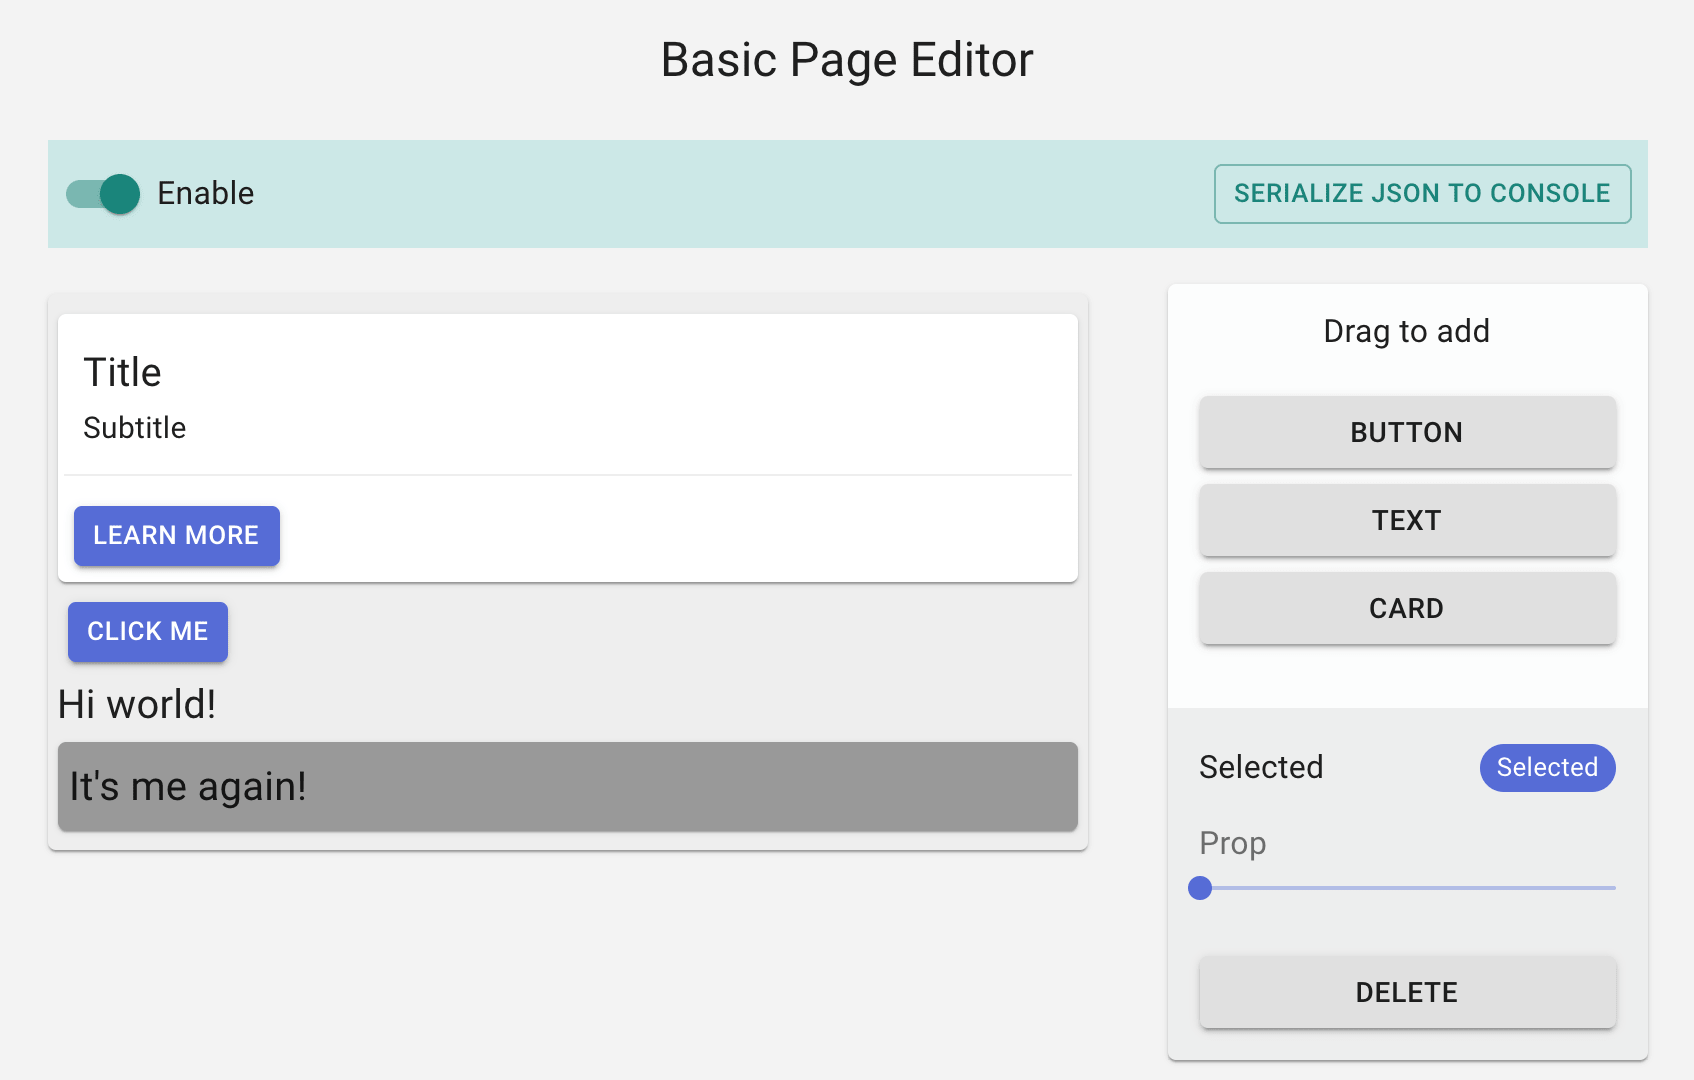
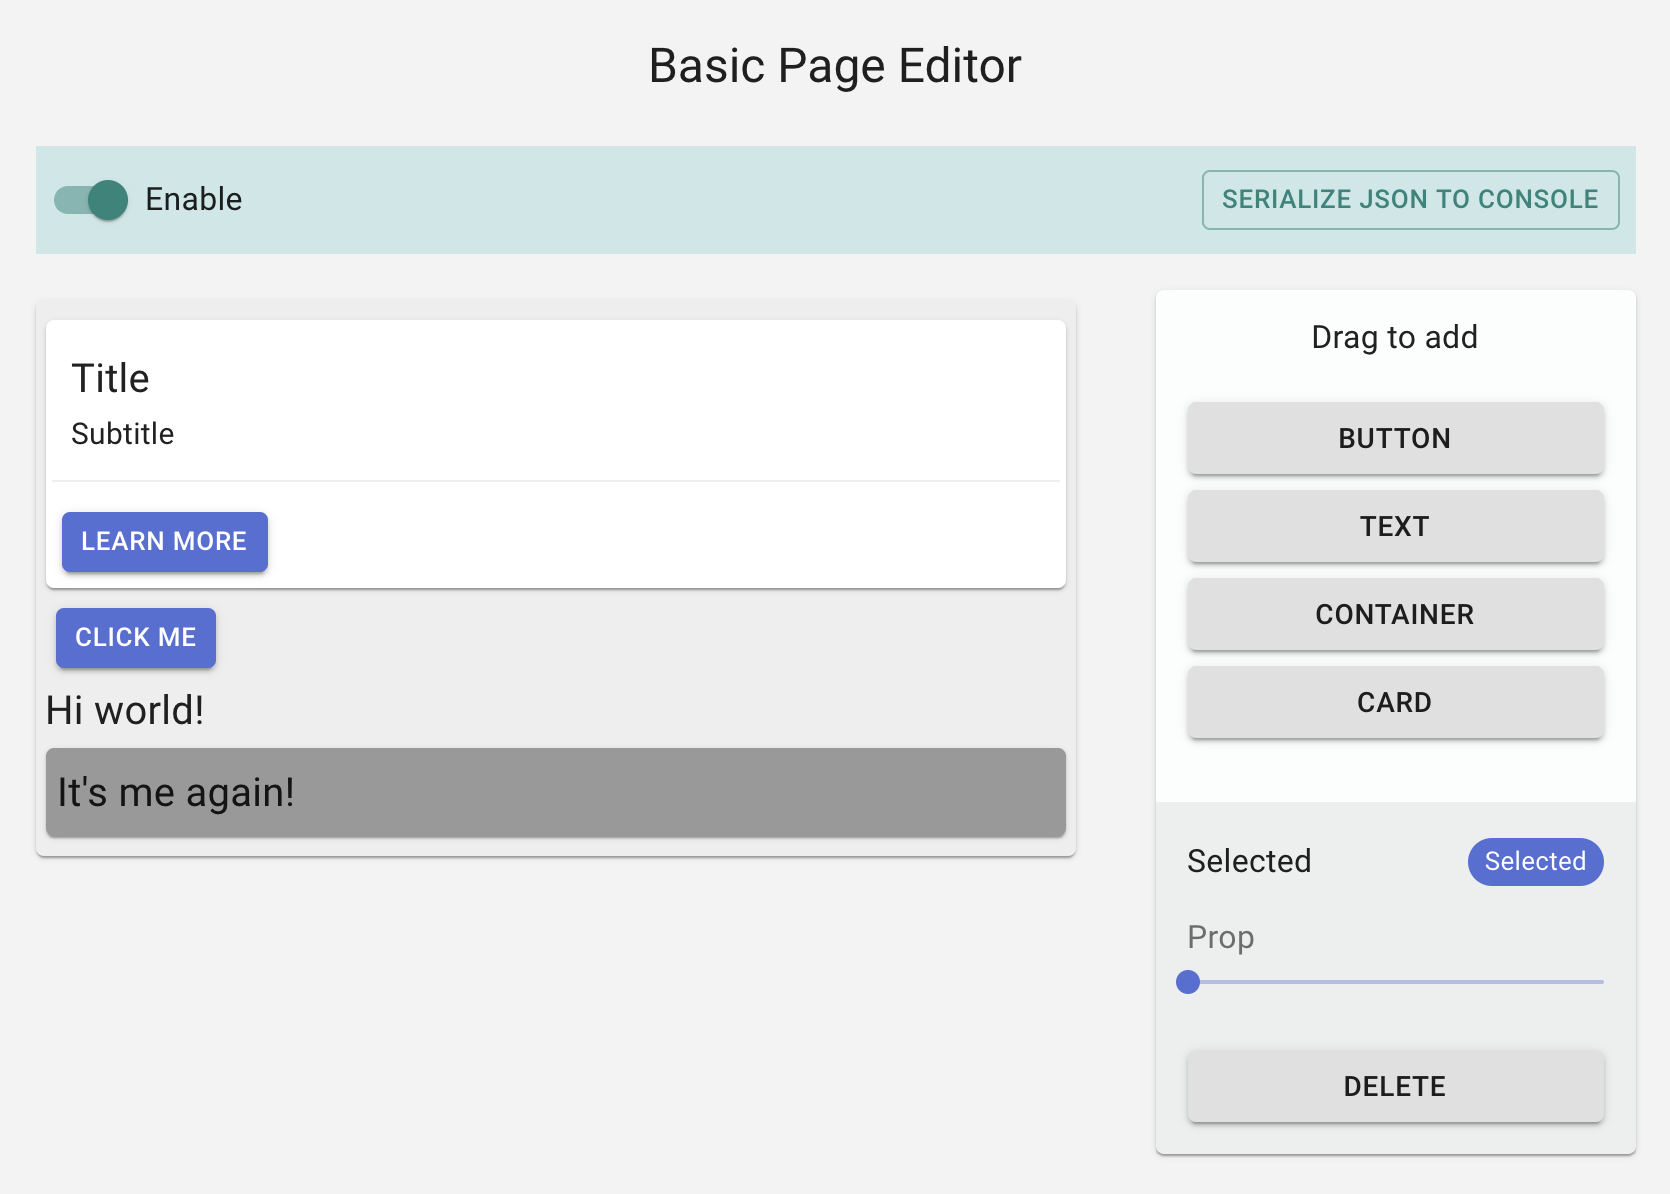
update docs

diff --git a/packages/docs/docs/basic-tutorial.md b/packages/docs/docs/basic-tutorial.md
@@ -95,13 +95,15 @@ import Container from "./Container";
 export const Card = ({background, padding = 20}) => {
   return (
     <Container background={background} padding={padding}>
-      <div ref={connect} className="text-only" style={{padding: "10px", marginBottom:"10px", borderBottom: "1px solid #eee", display: "flex", flexDirection: "column", alignItems:"flex-start"}}>
+      <Container background={background} padding={padding}>
+      <div className="text-only">
         <Text text="Title" fontSize={20} />
         <Text text="Subtitle" fontSize={15} />
       </div>
-      <div className="button-only">
-        <Button size="small">Learn More</Button>
+      <div className="buttons-only">
+        <Button size="small" text="Learn more" variant="contained" color="primary" />
       </div>
+    </Container>
     </Container>
   )
 }
@@ -110,7 +112,7 @@ export const Card = ({background, padding = 20}) => {
 
 ### The Editor
 #### Toolbox
-First, let's build a toolbox which our users would be able to drag and drop to create new instances of those user components we just defined.
+Let's build a "toolbox" which our users would be able to drag and drop to create new instances of those User Components we just defined.
 
 ```jsx
 // components/Toolbox.js
@@ -129,6 +131,9 @@ export const Toolbox = () => {
         </Grid>
         <Grid container direction="column" item>
           <MaterialButton variant="contained">Text</MaterialButton>
+        </Grid>
+        <Grid container direction="column" item>
+          <MaterialButton variant="contained">Container</MaterialButton>
         </Grid>
         <Grid container direction="column" item>
           <MaterialButton variant="contained">Card</MaterialButton>
@@ -267,7 +272,7 @@ Up to this point, we have made a user interface for our page editor. Now, let's 
   - `<Canvas />` creates a droppable region where its immediate children are draggable.
 
 
-```jsx
+```jsx {19,22,23,27,29-31,40}
 // pages/index.js
 import React from 'react';
 import {Typography, Paper, Grid} from '@material-ui/core';
@@ -286,9 +291,7 @@ export default function App() {
   return (
     <div>
       <Typography variant="h5" align="center">A super simple page editor</Typography>
-        <Editor
-          resolver={{Card, Button, Text, Container}}
-        > 
+        <Editor resolver={{Card, Button, Text, Container}}> 
           <Grid container spacing={3}>
             <Grid item xs>
               <Frame>
@@ -313,7 +316,6 @@ export default function App() {
     </div>
   );
 }
-
 ```
 
 Every element that is rendered in `<Frame />` is managed by an object in the editor's internal state called a `Node` which describes the element, its events, and props among other things. Whether an element is draggable or droppable or not depends on the type of `Node` that manages it. 
@@ -343,7 +345,7 @@ Inside a User Component, we have access to the `useNode` hook which provides sev
 The first thing we will need to do is to let Craft.js to manage the DOM of our component. The hook provides `connectors` which act as a bridge between the DOM and the events in Craft.js:
 
 
-```jsx {3,5,6,8}
+```jsx {4,7,10}
 // components/user/Text.js
 import React from "react";
 import { Typography } from "@material-ui/core";
@@ -377,7 +379,7 @@ Text.craft = {
 Our Text component can now only be dragged if the `text` prop is not set to "Drag" 🤪
 
 Nice, now let's enable drag-n-drop for the other User Components:
-```jsx {3}
+```jsx {3,5}
 // components/user/Button.js
 export const Button = ({size, variant, color, children}) => {
   const { connectors: {connect, drag} } = useNode();
@@ -389,7 +391,7 @@ export const Button = ({size, variant, color, children}) => {
 }
 ```
 
-```jsx
+```jsx {3,5}
 // components/user/Container.js
 export const Container = ({background, padding = 0, children}) => {
   const { connectors: {connect, drag} } = useNode();
@@ -420,7 +422,10 @@ At this point, you could refresh the page and you would be able to drag stuff ar
 #### Defining Droppable regions
 Of course, our Card component is supposed to have two droppable regions. Remember how `<Canvas />` defined a droppable region earlier in our application? We can do the same here insde our Card component.
 
-```jsx 
+```jsx {2,8,11,12,14}
+// components/user/Card.js
+import {useNode, Canvas} from "@craftjs/core";
+
 export const Card = (({bg})) => {
   const { connectors: {connect, drag}} = useNode();
   return (
@@ -526,11 +531,12 @@ Let's go back to our Toolbox component and make it so that dragging those button
 
 The `useEditor` also provides `connectors`; the one we are interested in right now is `create` which attaches a drag handler to the  DOM specified in its first arguement and creates the element specified in its second arguement.
 
-```jsx
+```jsx {19,22,25}
 // components/Toolbox.js
 import React from "react";
 import { Box, Typography, Grid, Button as MaterialButton } from "@material-ui/core";
-import { useEditor } from "@craftjs/core";
+import { Canvas, useEditor } from "@craftjs/core";
+import { Container } from "./user/Container";
 import { Card } from "./user/Card";
 import { Button } from "./user/Button";
 import { Text } from "./user/Text";
@@ -551,6 +557,9 @@ export const Toolbox = () => {
           <MaterialButton ref={ref=> connectors.create(ref, <Text text="Hi world" />)} variant="contained">Text</MaterialButton>
         </Grid>
         <Grid container direction="column" item>
+          <MaterialButton ref={ref=> connectors.create(ref, <Canvas is={Container} padding={20} />)} variant="contained">Container</MaterialButton>
+        </Grid>
+        <Grid container direction="column" item>
           <MaterialButton ref={ref=> connectors.create(ref, <Card />)} variant="contained">Card</MaterialButton>
         </Grid>
       </Grid>
@@ -558,6 +567,8 @@ export const Toolbox = () => {
   )
 };
 ```
+
+Notice for our Container component, we wrapped it with the `<Canvas />` - this makes it so that our users will be able to drag and drop a new Container component that is droppable.
 
 Now, you could drag and drop the Buttons, and they would actually create new instances of our User Components.
 
@@ -568,7 +579,7 @@ The `useNode` hook provides us with the method `setProp` which can be used to ma
 
 For simplicity's sake, we will be using `react-contenteditable`
 
-```jsx
+```jsx {11-20}
 import React, {useCallback} from "react";
 import ContentEditable from 'react-contenteditable'
 
@@ -598,7 +609,7 @@ But let's only enable content editable only when the component is clicked when i
 
 The `useNode` hook accepts a collector function which can be used to retrieve state information related to the corresponding `Node`:
 
-```jsx
+```jsx {4-5,8,10,18}
 // components/user/Text.js
 export const Text = ({text, fontSize}) => {
   const { connectors: {connect, drag}, selected, dragged, setProp } = useNode((state) => ({
@@ -893,7 +904,7 @@ const { currentlySelectedId } = useEditor((state) => ({
 
 Now, let's replace the placeholder text fields in our Settings Panel with the `settings` Related Component:
 
-```jsx
+```jsx {4,7-22,24,35-37}
 // components/SettingsPanel.js
 
 import { Box, Chip, Grid, Typography, Button as MaterialButton } from "@material-ui/core";
@@ -942,17 +953,15 @@ export const SettingsPanel = () => {
   ) : null
 }
 ```
+Now, we have to make our Delete button work. We can achieve this by using the `delete` action available from the `useEditor` hook.
 
-<Image img="tutorial/settings-panel.gif" />
+Also, it's important to note that not all nodes are deletable - if we try to delete an undeletable Node, it'll result in an error. Hence, it's good to make use of the [helper](/craft.js/docs/utilities) methods which helps describe a Node. In our case, we would like to know if the currently selected Node is deletable before actually displaying the "Delete" button. These methods can be accessed via the `is` query in the `useEditor` hook.
 
-
-Now, we have to make our Delete button work. We can achieve this by using the `delete` action available from the `useEditor` hook:
-
-```jsx
+```jsx {13,27-37}
 // components/SettingsPanel.js
 
 export const SettingsPanel = () => {
-  const { actions, selected } = useEditor((state) => {
+  const { actions, selected } } = useEditor((state, query) => {
     const currentNodeId = state.events.selected;
     let selected;
 
@@ -960,7 +969,8 @@ export const SettingsPanel = () => {
       selected = {
         id: currentNodeId,
         name: state.nodes[currentNodeId].data.name,
-        settings: state.nodes[currentNodeId].related && state.nodes[currentNodeId].related.settings
+        settings: state.nodes[currentNodeId].related && state.nodes[currentNodeId].related.settings,
+        isDeletable: query.is(currentNodeId).Deletable()
       };
     }
 
@@ -973,20 +983,25 @@ export const SettingsPanel = () => {
     <Box bgcolor="rgba(0, 0, 0, 0.058823529411764705)" mt={2} px={2} py={2}>
       <Grid container direction="column" spacing={0}>
         ...
-        <MaterialButton
-          variant="contained"
-          color="default"
-          onClick={() => {
-            actions.delete(selected.id);
-          }}
-        >
-          Delete
-        </MaterialButton>
+        {
+          selected.isDeletable ? (
+            <MaterialButton
+              variant="contained"
+              color="default"
+              onClick={() => {
+                actions.delete(selected.id);
+              }}
+            >
+              Delete
+            </MaterialButton>
+          ) : null
+        }
       </Grid>
     </Box>
   ) : null
 }
 ```
+<Image img="tutorial/settings-panel.gif" />
 
 ### Topbar
 This is the last part of the editor that we have to take care of and then we're done! 
@@ -995,10 +1010,7 @@ First, we can get the editor's `enabled` state by passing in a collector functio
 
 Lastly, the `useEditor` hook also provides `query` methods which provide information based the editor'state. In our case,  we would like to get the current state of all the `Nodes` in a serialised form; we can do this by calling the `serialize` query method. 
 
-> We'll explore how to compress this output and have the editor load from the serialised JSON in the [Save and Load](/craft.js/r/docs/save-load-state) guide.
-
-
-```jsx
+```jsx {4,7-9,16,25-27}
 // components/Topbar.js
 import React from "react";
 import { Box, FormControlLabel, Switch, Grid, Button as MaterialButton } from "@material-ui/core";
@@ -1038,6 +1050,7 @@ export const Topbar = () => {
 
 <Image img="tutorial/topbar.gif" />
 
+> We'll explore how to compress the JSON output and have the editor load from the serialised JSON in the [Save and Load](/craft.js/r/docs/save-load-state) guide.
 
 
 ## You made it 🎉
